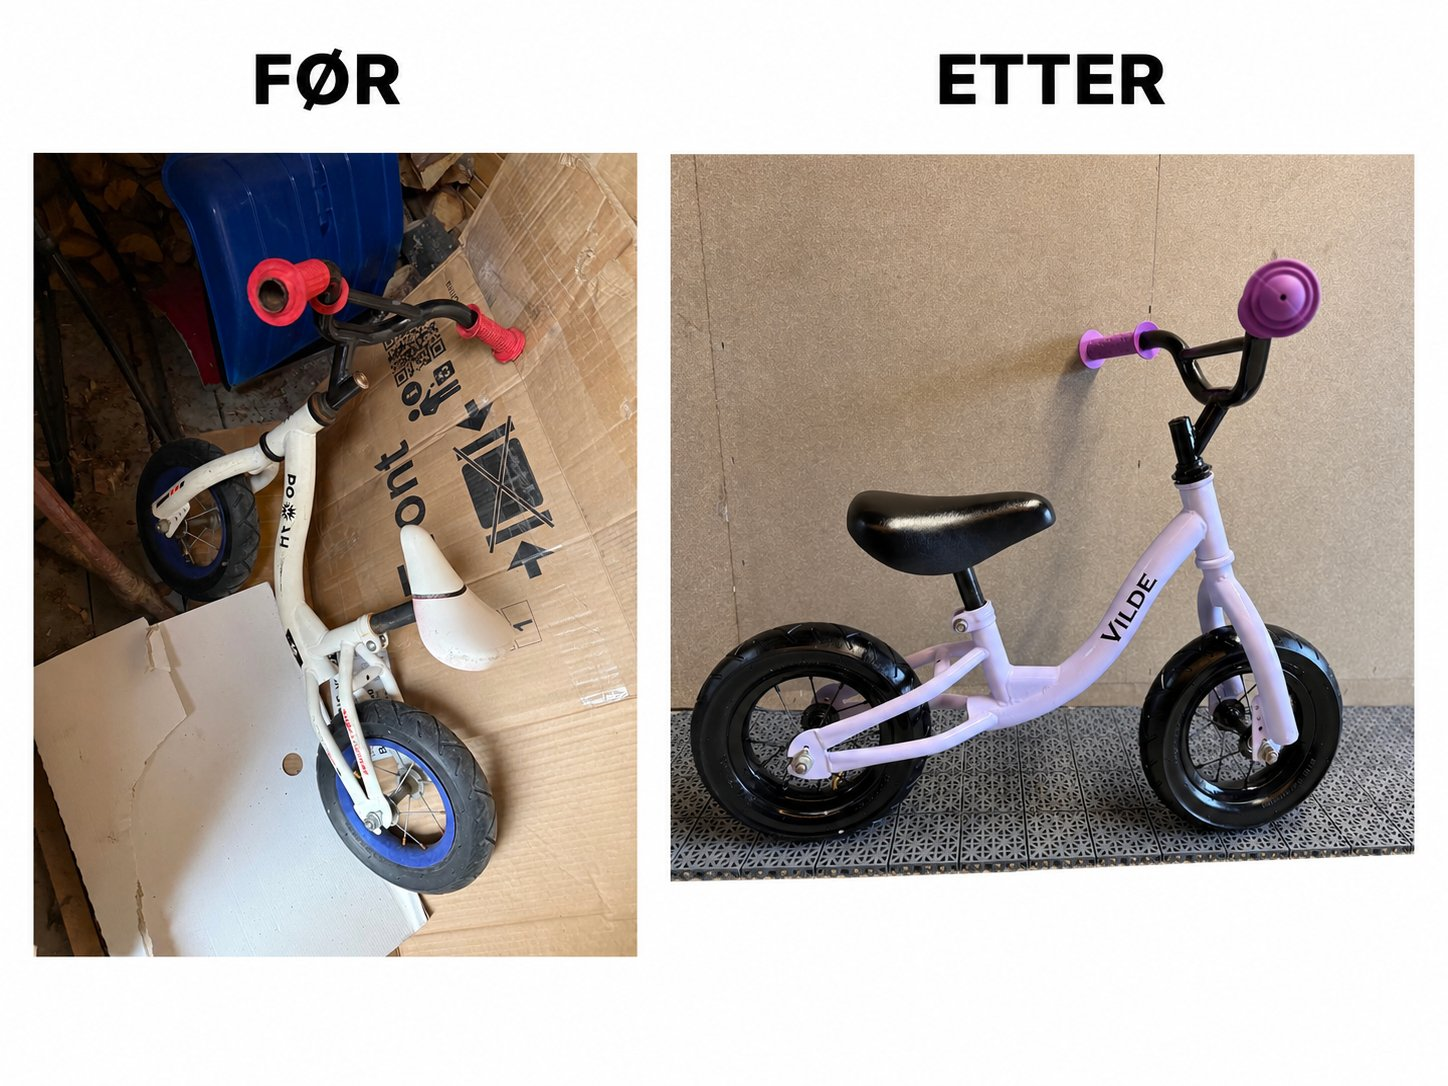
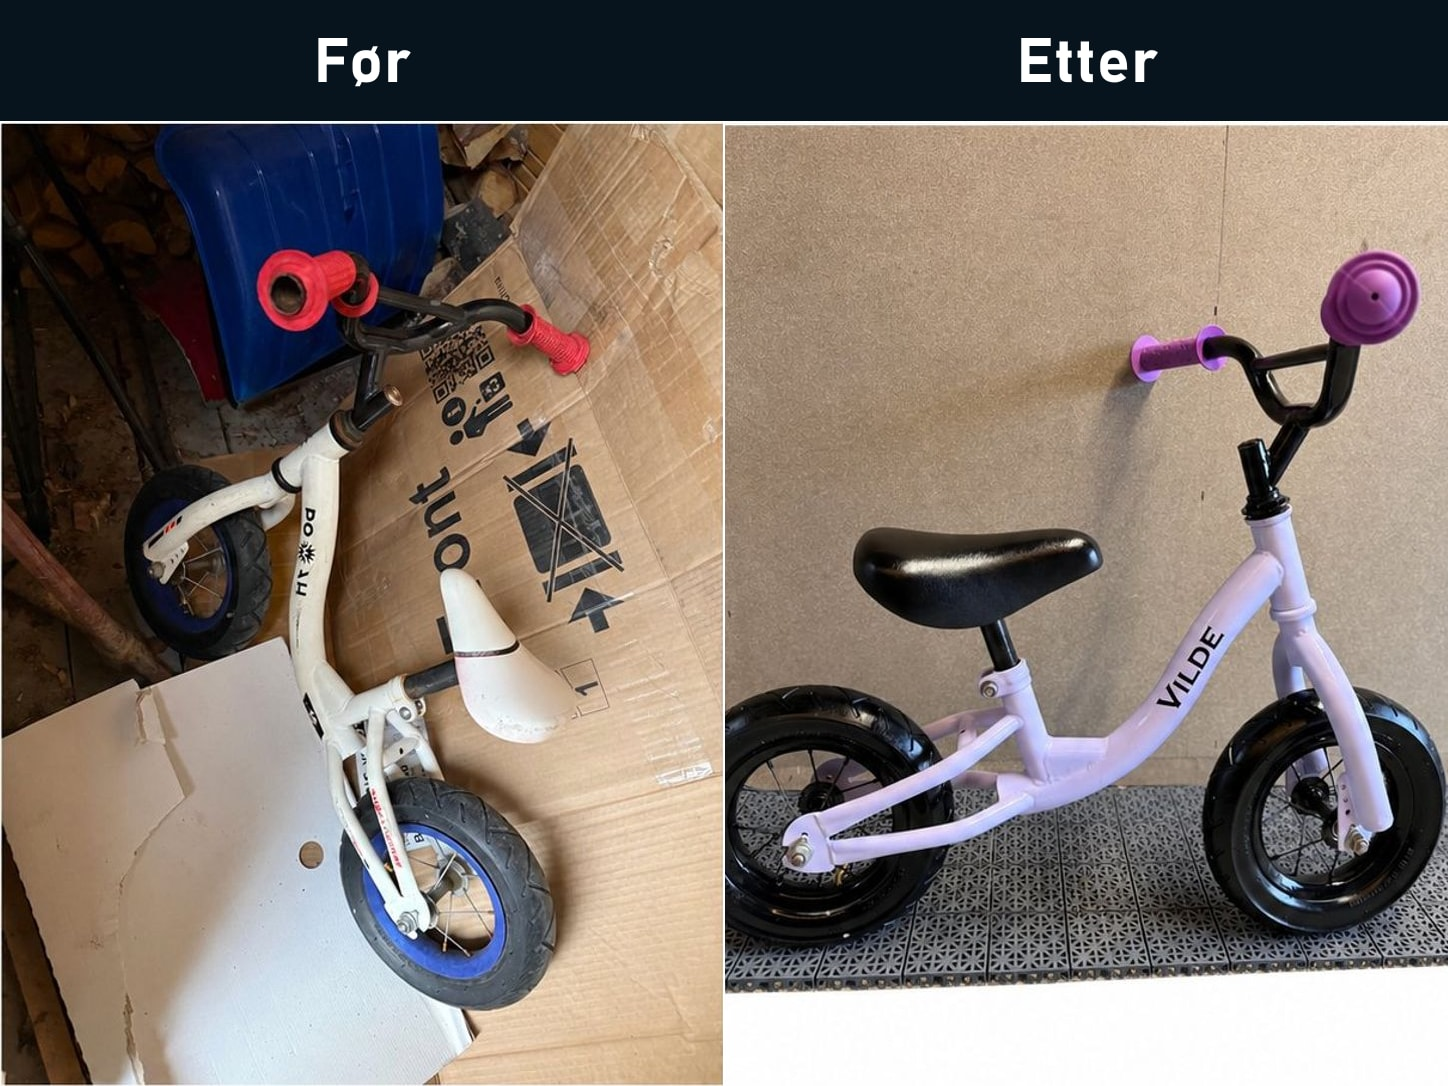
Galleri: match før/etter-stil og bytt duplikat drivverk-bilde
- Bygg om barnesykkel før/etter-bildet i samme stil som drivverk-bildet
  (mørk banner + hvite Før/Etter-etiketter, kant-i-kant med skillelinje)
  i stedet for hvit bakgrunn som brøt med resten av galleriet.
- Bytt «Justert gir og rent drivverk» til elsykkel-drivverk.jpg, siden det
  gamle bildet var samme drivverk som Etter-siden i før/etter-bildet øverst.
  Samme bildetekst beholdt.

diff --git a/galleri.html b/galleri.html
@@ -148,7 +148,7 @@
         <figcaption class="gallery-cap" data-en="Rear hub and freehub service">Service av bakhjulsnav og frinav</figcaption>
       </figure>
       <figure class="gallery-item">
-        <img src="media/web/service-drivverk.jpg" alt="Justert gir og rent drivverk" width="1300" height="975" loading="lazy" data-zoom="media/web/service-drivverk.jpg">
+        <img src="media/web/elsykkel-drivverk.jpg" alt="Justert gir og rent drivverk" width="1300" height="975" loading="lazy" data-zoom="media/web/elsykkel-drivverk.jpg">
         <figcaption class="gallery-cap" data-en="Adjusted gears and clean drivetrain">Justert gir og rent drivverk</figcaption>
       </figure>
       <figure class="gallery-item">
